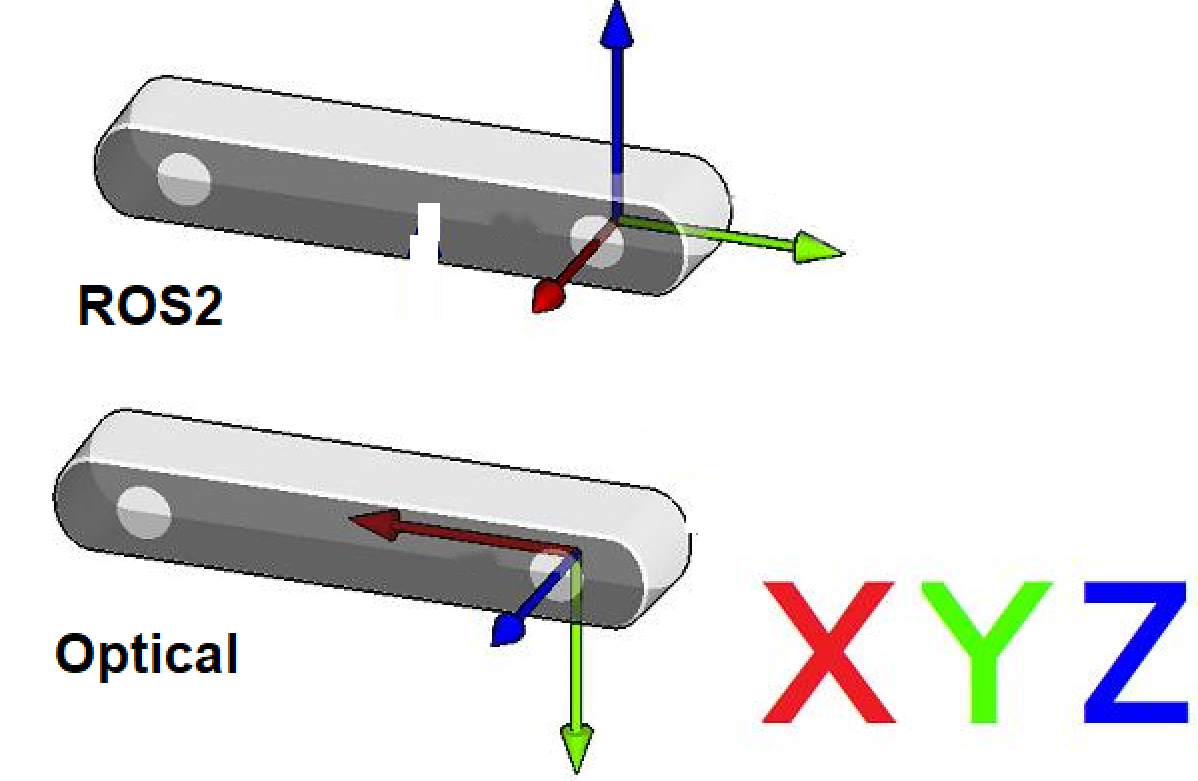
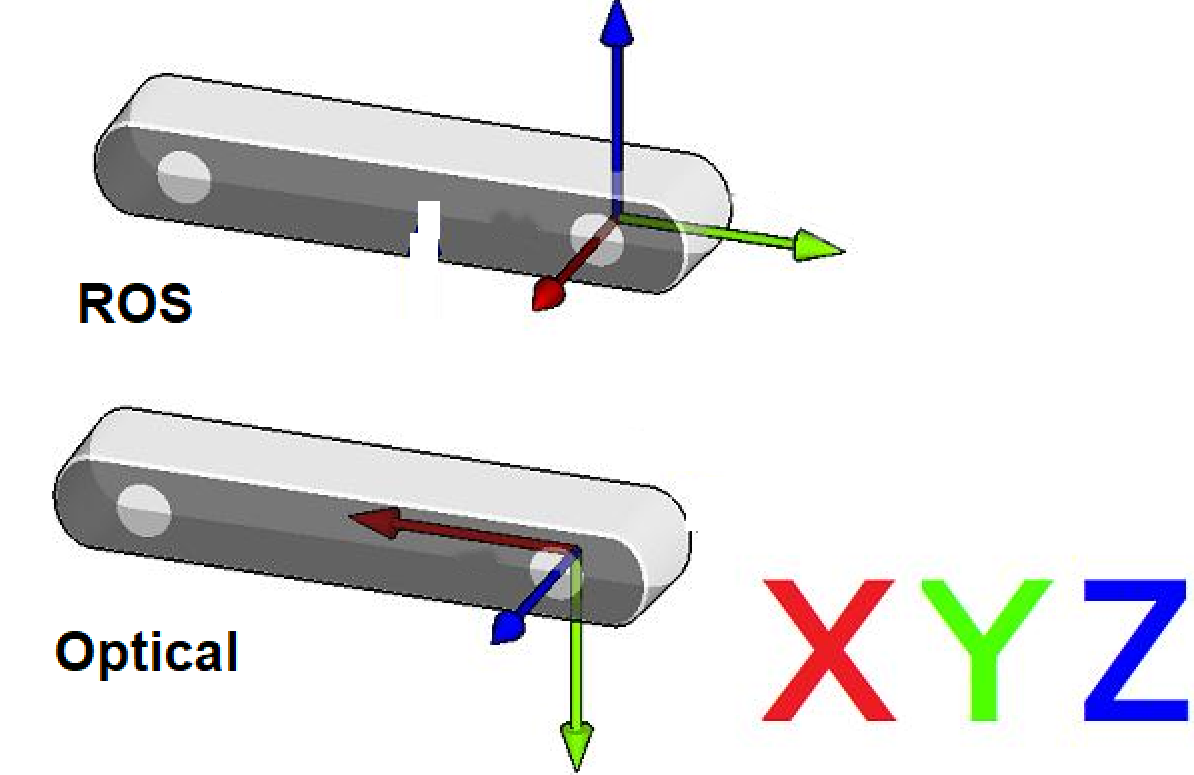
Update coordinate systems documentation for consistency and replace ROS2 references with ROS

diff --git a/docs/en/source/4_application_guide/coordinate_systems.md b/docs/en/source/4_application_guide/coordinate_systems.md
@@ -1,4 +1,4 @@
-### ROS2 Robot vs Camera Optical Coordination Systems
+### ROS Robot vs Camera Optical Coordination Systems
 
 * Point Of View:
   * Imagine we are standing behind of the camera, and looking forward.
@@ -6,8 +6,7 @@
 
 ![ROS2 and Camera Coordinate System](../image/application_guide/image0.png)
 
-* ROS2 Coordinate System: (X: Forward, Y:Left, Z: Up)
+* ROS Coordinate System: (X: Forward, Y:Left, Z: Up)
 * Camera Optical Coordinate System: (X: Right, Y: Down, Z: Forward)
 * All data published in our wrapper topics is optical data taken directly from our camera sensors.
 * static and dynamic TF topics publish optical CS and ROS CS to give the user the ability to move from one CS to other CS.
-
